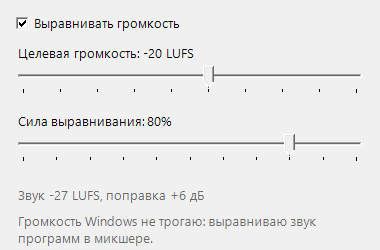
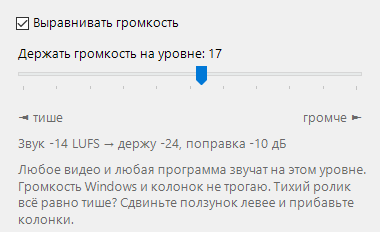
1.3.0: один ползунок «Держать громкость на уровне», полная поправка вверх и вниз, быстрый спуск, журнал log.txt

diff --git a/src/SoundHelper.cs b/src/SoundHelper.cs
@@ -17,8 +17,8 @@ using Microsoft.Win32;
 [assembly: System.Reflection.AssemblyProduct("MCPteam Звуковой помощник")]
 [assembly: System.Reflection.AssemblyCompany("MCPteam")]
 [assembly: System.Reflection.AssemblyCopyright("MIT, MCPteam 2026")]
-[assembly: System.Reflection.AssemblyVersion("1.2.4.0")]
-[assembly: System.Reflection.AssemblyFileVersion("1.2.4.0")]
+[assembly: System.Reflection.AssemblyVersion("1.3.0.0")]
+[assembly: System.Reflection.AssemblyFileVersion("1.3.0.0")]
 
 namespace SoundHelper
 {
@@ -157,11 +157,11 @@ namespace SoundHelper
     class Settings
     {
         public bool Enabled = true;
-        public double Target = -20;     // LUFS of the mix that should sound like "your normal volume"
-        public double Strength = 0.8;   // 0..1, how much of the difference is corrected
+        public double Target = -24;     // LUFS every sound is held at: the one slider "keep the volume at this level"
+        public double Strength = 1;     // full correction: the level is held, not just nudged (1.3.0)
         public double MaxBoost = 0;     // dB: apps play this much under their mixer volume, so quiet content can be lifted (0: only cut, never drop the normal level)
         public double MaxCut = 24;      // dB
-        public double Guard = 5;
+        public double Guard = 4;
         public bool PostVolume = true; // loopback is taken after the master volume (measured on Win10 HDA); loopback=pre to switch off        // dB above target allowed for 50 ms peaks before the guard cuts
 
         static string Path { get { return System.IO.Path.Combine(Environment.GetFolderPath(Environment.SpecialFolder.ApplicationData), "MCPteam Sound Helper", "settings.ini"); } }
@@ -181,8 +181,7 @@ namespace SoundHelper
                     switch (kv[0].Trim())
                     {
                         case "enabled": s.Enabled = v != 0; break;
-                        case "target": s.Target = Clamp(v, -35, -8); break;
-                        case "strength": s.Strength = Clamp(v, 0, 1); break;
+                        case "level": s.Target = Clamp(v, -40, -10); break; // 1.3.0: new key, "target"/"strength" of 1.2 are dropped
                         case "reserve": s.MaxBoost = Clamp(v, 0, 20); break;
                         case "maxcut": s.MaxCut = Clamp(v, 0, 40); break;
                         case "guard": s.Guard = Clamp(v, 1, 15); break;
@@ -200,8 +199,8 @@ namespace SoundHelper
             {
                 Directory.CreateDirectory(System.IO.Path.GetDirectoryName(Path));
                 File.WriteAllText(Path, string.Format(CultureInfo.InvariantCulture,
-                    "enabled={0}\ntarget={1}\nstrength={2}\nreserve={3}\nmaxcut={4}\nguard={5}\n",
-                    Enabled ? 1 : 0, Target, Strength, MaxBoost, MaxCut, Guard));
+                    "enabled={0}\nlevel={1}\nreserve={2}\nmaxcut={3}\nguard={4}\n",
+                    Enabled ? 1 : 0, Target, MaxBoost, MaxCut, Guard));
             }
             catch { }
         }
@@ -221,7 +220,7 @@ namespace SoundHelper
     {
         readonly int channels; readonly double fs;
         readonly Biquad[] shelf, hp;
-        double eFast = 1e-10, eMom = 1e-10, eSlow = 1e-10, blockE; int blockN;
+        double eFast = 1e-10, eMom = 1e-10, eSlow = 1e-10, blockE, quietFor, fresh; int blockN;
         public double Gain;              // dB, current correction
         public double LMom = -70, LSlow = -70;
         public Settings S;
@@ -269,14 +268,24 @@ namespace SoundHelper
             eFast += (e - eFast) * (1 - Math.Exp(-dt / 0.05));
             eMom += (e - eMom) * (1 - Math.Exp(-dt / 0.4));
             LMom = L(eMom);
-            if (LMom > -50) eSlow += (e - eSlow) * (1 - Math.Exp(-dt / 2.5)); // gated: pauses don't pull the level down
+            // a pause of 0.6 s+ is usually a switch to another video: for the next 2 s the level is learnt fast, so the new video
+            // starts at the held volume instead of keeping the correction of the previous one for several seconds
+            if (L(e) < -55) quietFor += dt; else { if (quietFor >= 0.6) fresh = 2; quietFor = 0; }
+            if (fresh > 0) fresh -= dt;
+            // gated: pauses don't pull the level down; level far under the average (loud video ended) is caught in ~1.5 s, not ~10 s
+            double tau = fresh > 0 ? 0.3 : LMom < LSlow - 6 ? 0.25 : 2.5;
+            if (LMom > -50 || (fresh > 0 && L(eFast) > -50)) eSlow += (e - eSlow) * (1 - Math.Exp(-dt / tau));
             LSlow = L(eSlow);
-            if (LMom < -50) return; // silence or near-silence: don't pump noise up
+            if (LMom < -50 && fresh <= 0) return; // silence or near-silence: don't pump noise up
 
             double desired = Settings.Clamp(S.Strength * (S.Target - LSlow), -S.MaxCut, S.MaxBoost);
             desired = Settings.Clamp(desired, MinGain, MaxGain);
-            if (desired < Gain) Gain = Math.Max(desired, Gain - 3 * dt);    // going down: 3 dB/s, no audible drop (bangs are the guard's job)
-            else Gain = Math.Min(desired, Gain + 3 * dt);                     // going up: 3 dB/s, smooth recovery
+            double up = fresh > 0 ? 25 : desired - Gain > 6 ? 15 : 6;
+            if (desired < Gain) Gain = Math.Max(desired, Gain - (fresh > 0 ? 25 : 4) * dt);    // going down slowly with the 2.5 s level
+            else Gain = Math.Min(desired, Gain + up * dt); // going up: 6 dB/s, a big gap at 15 dB/s, a fresh video at 25 dB/s
+
+            // a new, louder video: the 0.4 s level is already 2 dB+ over the line -> follow it at 20 dB/s, don't wait for the 2.5 s one
+            if (LMom + Gain - S.Target > 2) Gain = Math.Max(Math.Max(MinGain, S.Target - LMom), Gain - 20 * dt);
 
             // guard: a bang (explosion, ad, notification) louder than target+Guard is cut at once
             double ceiling = S.Target + S.Guard;
@@ -372,7 +381,7 @@ namespace SoundHelper
                 // every SetMasterVolume makes Windows fire an ETW event that the kernel keeps until reboot (1.2.0 ate ~25 GB/h
                 // of pool with dozens of Chrome tabs): only real changes, and Apply itself runs at most every 250 ms
                 // step in dB, not linear: 0.02 at 10 % volume was a 1.7 dB jump; 1 dB per 250 ms is still smooth to the ear
-                if (a.Last < 0 || Math.Abs(20 * Math.Log10((want + 1e-3) / (a.Last + 1e-3))) >= 1) { a.V.SetMasterVolume(want, ref ctx); a.Last = want; }
+                if (a.Last < 0 || Math.Abs(20 * Math.Log10((want + 1e-3) / (a.Last + 1e-3))) >= 0.5) { a.V.SetMasterVolume(want, ref ctx); a.Last = want; }
             }
             applied = f;
             if (dirty) SaveState();
@@ -399,7 +408,7 @@ namespace SoundHelper
             Scan(sm);
             Check(ac.Start());
             var buf = new float[rate * ch];
-            DateTime lastData = DateTime.UtcNow, lastScan = DateTime.UtcNow, lastApply = DateTime.MinValue;
+            DateTime lastData = DateTime.UtcNow, lastScan = DateTime.UtcNow, lastApply = DateTime.MinValue, lastLog = DateTime.MinValue;
             try
             {
                 while (!Stop)
@@ -428,15 +437,16 @@ namespace SoundHelper
 
                     // normal content plays MaxBoost dB under the app's mixer volume; quiet content gets that room back
                     float f = S.Enabled ? (float)Math.Pow(10, (c.Gain - S.MaxBoost) / 20.0) : 1f;
-                    bool rescan = (DateTime.UtcNow - lastScan).TotalSeconds > 1;
+                    bool rescan = (DateTime.UtcNow - lastScan).TotalMilliseconds > 300; // a new tab/player gets the current level within 0.3 s
                     if (rescan) { lastScan = DateTime.UtcNow; Scan(sm); }
                     double step = 20 * Math.Log10(f / applied), since = (DateTime.UtcNow - lastApply).TotalMilliseconds;
                     // a bang (drop of 3 dB+) is cut within 50 ms, everything else rides at most every 250 ms
                     if (rescan || (since >= 250 && Math.Abs(step) >= 0.25) || (since >= 50 && step <= -3))
                     { Apply(f); lastApply = DateTime.UtcNow; }
 
+                    if ((DateTime.UtcNow - lastLog).TotalSeconds >= 2 && c.LMom > -50) { lastLog = DateTime.UtcNow; Log(c, apps.Count); }
                     Status = !S.Enabled ? string.Format("Выключено (звук {0:0.0} LUFS)", c.LMom) : c.LMom < -50 ? "Тишина, громкость держу"
-                        : string.Format("Звук {0:0} LUFS, поправка {1:+0;-0;0} дБ, программ: {2}", c.LSlow, c.Gain - S.MaxBoost, apps.Count);
+                        : string.Format("Звук {0:0} LUFS → держу {1:0}, поправка {2:+0;-0;0} дБ", c.LSlow, c.LSlow + c.Gain - S.MaxBoost, c.Gain - S.MaxBoost);
 
                     if (rescan)
                     {
@@ -447,6 +457,19 @@ namespace SoundHelper
                 }
             }
             finally { try { ac.Stop(); } catch { } }
+        }
+
+        // log.txt: one line per 2 s while sound plays (content level, correction, what comes out); kept under 1 MB
+        void Log(Controller c, int n)
+        {
+            try
+            {
+                string p = Path.Combine(Settings.Dir, "log.txt");
+                if (File.Exists(p) && new FileInfo(p).Length > 1 << 20) File.Delete(p);
+                File.AppendAllText(p, string.Format(CultureInfo.InvariantCulture, "{0:yyyy-MM-dd HH:mm:ss}\tзвук {1:0.0}\tпоправка {2:+0.0;-0.0;0}\tна выходе {3:0.0}\tуровень {4}\tпрограмм {5}\t{6}\r\n",
+                    DateTime.Now, c.LSlow, c.Gain - S.MaxBoost, c.LMom + c.Gain - S.MaxBoost, S.Target, n, S.Enabled ? "вкл" : "выкл"));
+            }
+            catch { }
         }
 
         static void Check(int hr) { if (hr != 0) Marshal.ThrowExceptionForHR(hr); }
@@ -509,27 +532,23 @@ namespace SoundHelper
         public static Form BuildPanel(Settings S, Icon icon, Action toggle, Func<string> status)
         {
             var f = new Form { Text = "MCPteam Звуковой помощник", FormBorderStyle = FormBorderStyle.FixedDialog, MaximizeBox = false, MinimizeBox = false,
-                ClientSize = new Size(380, 250), StartPosition = FormStartPosition.Manual, Icon = icon, Font = new Font("Segoe UI", 9.5f), TopMost = true };
+                ClientSize = new Size(380, 232), StartPosition = FormStartPosition.Manual, Icon = icon, Font = new Font("Segoe UI", 9.5f), TopMost = true };
             var wa = Screen.PrimaryScreen.WorkingArea; f.Location = new Point(wa.Right - f.Width - 12, wa.Bottom - f.Height - 12);
             var on = new CheckBox { Text = "Выравнивать громкость", Checked = S.Enabled, Left = 16, Top = 12, Width = 300 };
             on.CheckedChanged += delegate { if (on.Checked != S.Enabled) toggle(); };
             var lt = new Label { Left = 16, Top = 44, Width = 350 };
-            var tt = new TrackBar { Left = 10, Top = 64, Width = 360, Minimum = -35, Maximum = -8, TickFrequency = 3, Value = (int)S.Target };
-            var ls = new Label { Left = 16, Top = 112, Width = 350 };
-            var ts = new TrackBar { Left = 10, Top = 132, Width = 360, Minimum = 0, Maximum = 100, TickFrequency = 10, Value = (int)(S.Strength * 100) };
-            var st = new Label { Left = 16, Top = 186, Width = 350, ForeColor = Color.DimGray };
-            var hint = new Label { Left = 16, Top = 212, Width = 350, Height = 34, ForeColor = Color.DimGray, Text = "Громкость Windows не трогаю: выравниваю звук программ в микшере." };
-            Action upd = delegate
-            {
-                lt.Text = string.Format("Целевая громкость: {0} LUFS{1}", tt.Value, tt.Value >= -16 ? " (громче)" : tt.Value <= -26 ? " (тише)" : "");
-                ls.Text = string.Format("Сила выравнивания: {0}%", ts.Value);
-            };
+            var tt = new TrackBar { Left = 10, Top = 64, Width = 360, Minimum = -40, Maximum = -10, TickFrequency = 3, Value = (int)S.Target };
+            var lq = new Label { Left = 16, Top = 108, Width = 120, Text = "◄ тише", ForeColor = Color.DimGray };
+            var ll = new Label { Left = 250, Top = 108, Width = 114, Text = "громче ►", ForeColor = Color.DimGray, TextAlign = ContentAlignment.TopRight };
+            var st = new Label { Left = 16, Top = 134, Width = 350, ForeColor = Color.DimGray };
+            var hint = new Label { Left = 16, Top = 160, Width = 350, Height = 66, ForeColor = Color.DimGray,
+                Text = "Любое видео и любая программа звучат на этом уровне. Громкость Windows и колонок не трогаю. Тихий ролик всё равно тише? Сдвиньте ползунок левее и прибавьте колонки." };
+            Action upd = delegate { lt.Text = string.Format("Держать громкость на уровне: {0}", tt.Value + 41); };
             tt.ValueChanged += delegate { S.Target = tt.Value; upd(); S.Save(); };
-            ts.ValueChanged += delegate { S.Strength = ts.Value / 100.0; upd(); S.Save(); };
             var t = new System.Windows.Forms.Timer { Interval = 250 }; t.Tick += delegate { st.Text = status(); }; st.Text = status(); t.Start();
             f.FormClosed += delegate { t.Dispose(); };
             upd();
-            f.Controls.AddRange(new Control[] { on, lt, tt, ls, ts, st, hint });
+            f.Controls.AddRange(new Control[] { on, lt, tt, lq, ll, st, hint });
             return f;
         }
 
@@ -625,7 +644,7 @@ namespace SoundHelper
             if (args.Length >= 2 && args[0] == "--shot")
             {   // README screenshot of the settings window, rendered without showing it
                 Application.EnableVisualStyles();
-                var f = App.BuildPanel(new Settings(), App.MakeIcon(Color.FromArgb(255, 122, 0)), delegate { }, delegate { return "Звук -27 LUFS, поправка +6 дБ"; });
+                var f = App.BuildPanel(new Settings(), App.MakeIcon(Color.FromArgb(255, 122, 0)), delegate { }, delegate { return "Звук -14 LUFS → держу -24, поправка -10 дБ"; });
                 var cs = f.ClientSize; var hh = f.Handle;
                 using (var bmp = new Bitmap(cs.Width, cs.Height))
                 {

diff --git a/README.md b/README.md
@@ -18,11 +18,12 @@
 
 ![Окно настроек](docs/settings.png)
 
-- **Целевая громкость** — на каком уровне держать звук.
-- **Сила выравнивания** — 100% выравнивает почти всё, 50% оставляет фильму часть его динамики.
+- **Держать громкость на уровне** — один ползунок. Поставьте его один раз, и любое видео, фильм или программа будут звучать на этом уровне: громкий ролик убавится, тихий пойдёт на полной громкости программы, при смене видео уровень ловится за 1–2 секунды.
 - В меню значка: вкл/выкл, автозапуск с Windows (включается при первом запуске), выход. При выходе громкость программ в микшере возвращается как была.
 
-Помощник только убирает лишний громкий звук: обычный уровень остаётся таким, как стоит программа в микшере, громкие места плавно убавляются, резкие удары (взрыв, реклама, уведомление) срезаются сразу. Поэтому после включения ничего не становится тише. Если хотите, чтобы тихое ещё и поднималось, задайте запас строкой `reserve=6` в `%APPDATA%\MCPteam Sound Helper\settings.ini`: обычный звук пойдёт на 6 дБ ниже, а тихому эти 6 дБ вернутся.
+Как настроить один раз. Включите обычный ролик и подберите громкость колонками или Windows, как вам удобно. Если громкие ролики стали тише, чем хотелось, прибавьте колонки: дальше всё будет звучать на этой громкости. Если тихие ролики всё равно тише остальных, сдвиньте ползунок левее и ещё чуть прибавьте колонки. Громче 100% своей громкости программа звук поднять не может, поэтому уровень ползунка должен быть не выше самого тихого, что вы смотрите.
+
+Что делала программа, видно в `%APPDATA%\MCPteam Sound Helper\log.txt`: строка раз в 2 секунды, пока играет звук (громкость звука, поправка, что вышло).
 
 ## Чем отличается
 
@@ -30,16 +31,18 @@
 - **Нулевая задержка.** Звук не проходит через программу, поэтому губы в видео не отстают от голоса.
 - **Сам переключается** на наушники, HDMI или Bluetooth, когда меняется устройство вывода.
 - **Ваша громкость остаётся вашей.** Общий ползунок Windows программа не двигает никогда.
-- **Два ползунка** вместо конфигов и плагинов.
+- **Один ползунок** вместо конфигов и плагинов.
 - **И поднимает, и убавляет.** Обычный ограничитель только срезает громкое, а тихий ролик так и остаётся тихим.
 
 ## Как это устроено
 
 Звуковой помощник не пропускает звук через себя. Программа слушает общий звук системы (WASAPI loopback), меряет громкость по стандарту ITU-R BS.1770 (тот же LUFS, по которому нормализуют YouTube и ТВ) и плавно двигает громкость каждой играющей программы в микшере Windows (тот же ползунок, что в «Микшере громкости»). Общий регулятор Windows только читается и не меняется:
 
-- поднимает не быстрее 3 дБ в секунду, без «качания»;
-- убавляет до 10 дБ в секунду;
-- если звук за 50 мс прыгнул выше цели больше чем на 5 дБ (взрыв, реклама, уведомление), режет сразу;
+- внутри одного видео поднимает не быстрее 6 дБ в секунду, без «качания»;
+- если звук за 0,4 с ушёл выше уровня на 2 дБ (началось громкое видео), убавляет до 20 дБ в секунду;
+- если звук за 50 мс прыгнул выше уровня больше чем на 4 дБ (взрыв, реклама, уведомление), режет сразу;
+- после паузы от 0,6 с (переключили видео) 2 секунды подстраивается быстро, поэтому новое видео не играет с поправкой от прошлого;
+- новая вкладка или плеер получает текущую поправку за 0,3 с;
 - в тишине и паузах ничего не трогает, поэтому шум не вытягивается.
 
 Раз звук идёт мимо программы, у видео нет никакой задержки к картинке, а вылет программы не оставит вас без звука. Цена такого подхода: первые 20–30 мс резкого удара успевают пройти до того, как громкость сдвинется, а в «Микшере громкости» ползунки программ ходят сами. Свою громкость программы в микшере можно менять как обычно, помощник запомнит её. Если программу закрыли посреди громкой сцены, Windows запомнит убавленную громкость, а помощник при следующем запуске вернёт вашу.
@@ -50,11 +53,12 @@
 
 | Пример | Было | Стало |
 |---|---|---|
-| Фильм Tears of Steel, 12 мин: разброс кратковременной громкости (5–95%) | 23 дБ (−30…−7 LUFS) | 10 дБ (−26…−17 LUFS) |
-| Тот же фильм, диапазон громкости LRA | 20,8 LU | 8,0 LU |
-| Тихий ролик, потом громкий: разница между ними | 18 дБ (−26,3 и −8,3 LUFS) | 4 дБ (−22,0 и −17,9 LUFS) |
+| Фильм Tears of Steel, 12 мин (версия 1.1): разброс кратковременной громкости (5–95%) | 23 дБ (−30…−7 LUFS) | 10 дБ (−26…−17 LUFS) |
+| Тот же фильм (версия 1.1), диапазон громкости LRA | 20,8 LU | 8,0 LU |
+| Трейлер, громкий ролик, снова трейлер по 100 с (версия 1.3) | −24,0 / −7,1 / −24,0 LUFS, разница 17 дБ | −24,8 / −24,1 / −24,7 LUFS, разница 0,7 дБ |
+| То же в версии 1.2.4 (только убавляла) | | −24,0 / −17,8 / −24,3 LUFS, разница 6 дБ |
 
-Живой тест на Windows 10 (версия 1.1): громкость Windows всё время стояла на 100% и не сдвинулась ни разу. Тихий отрывок (−26 LUFS) шёл с полной громкостью программы, громкий (−8 LUFS) программа убавила на 15 дБ, после выхода громкость программы в микшере вернулась на прежнюю.
+Живой тест версии 1.3 на Windows 10, громкость Windows 100%: тихий отрывок, громкий, снова тихий по 15 с с паузой 1 с. На выходе −24,7 / −23,6 / −24,0 LUFS, после переключения уровень ловится за 1–2 с. Громкость Windows все 50 секунд стояла на 1,00.
 
 ## Сборка из исходников
 
@@ -89,11 +93,11 @@ One video is too quiet, the next one is deafening; a movie whispers and then exp
 
 - **No driver, no APO, no reboot.** A 38 KB tray app.
 - **Zero added latency.** Audio never passes through the app: it measures the system mix (WASAPI loopback, ITU-R BS.1770 / LUFS) and rides the per-app volumes in the Windows Volume Mixer. The Windows master volume is never touched.
-- Smooth: up at most 3 dB/s, down up to 10 dB/s, instant guard when loudness jumps 5 dB over the target within 50 ms. Silence is ignored, so noise is not pumped up.
+- One slider, "keep the volume at this level": every video and app is brought to it. Up 6 dB/s inside a video, down up to 20 dB/s when a louder video starts, instant guard at +4 dB within 50 ms, fast 2 s re-learn after a pause of 0.6 s+ (video switch). Silence is ignored, so noise is not pumped up.
 - Follows the default output device (headphones, HDMI, Bluetooth). Restores your volume on exit.
-- Set Windows and speaker volume as you like, the app leaves them alone. By default it only cuts loud content and never lowers the normal level; `reserve=6` in settings.ini makes normal content play 6 dB lower so quiet content can be lifted back.
+- Set Windows and speaker volume as you like, the app leaves them alone. An app can't go above 100 % of its own volume, so set the level no higher than the quietest content you watch and turn the speakers up once. A log of what it did is in `%APPDATA%\MCPteam Sound Helper\log.txt`.
 
-Measured with the same controller code (`--sim`): on the 12‑minute film *Tears of Steel* the short‑term loudness spread went from 23 dB to 10 dB (LRA 20.8 → 8.0 LU); a quiet clip followed by a loud one went from an 18 dB gap to 4 dB.
+Measured with the same controller code (`--sim`): on the 12‑minute film *Tears of Steel* (v1.1) the short‑term loudness spread went from 23 dB to 10 dB (LRA 20.8 → 8.0 LU); a trailer, a loud video and the trailer again (v1.3) went from a 17 dB gap to 0.7 dB (v1.2.4: 6 dB).
 
 Trade-off: the first 20–30 ms of a sudden bang pass before the volume moves, and app sliders in the Volume Mixer move by themselves.
 
